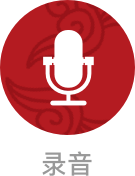
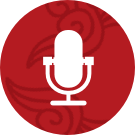
bug fixed

diff --git a/public/ximalaya/css/style.less b/public/ximalaya/css/style.less
@@ -519,6 +519,22 @@ select {
             margin: 0 80px;
         }
     }
+    .action-txt {
+        padding-top: 10px;
+        font-size: 26px;
+        color: rgba(153, 153, 153, 1);
+        line-height: 37px;
+    }
+    .recode-action,
+    .playing-action {
+        width: 100%;
+    }
+    .action-img {
+        margin: auto;
+    }
+    .red {
+        color: #a20619;
+    }
 }
 
 .result-page {

diff --git a/public/ximalaya/css/style.css b/public/ximalaya/css/style.css
@@ -518,6 +518,22 @@ select {
 .recode-page .actions .bw {
   margin: 0 80px;
 }
+.recode-page .action-txt {
+  padding-top: 10px;
+  font-size: 26px;
+  color: #999999;
+  line-height: 37px;
+}
+.recode-page .recode-action,
+.recode-page .playing-action {
+  width: 100%;
+}
+.recode-page .action-img {
+  margin: auto;
+}
+.recode-page .red {
+  color: #a20619;
+}
 .result-page {
   background: #efefef;
 }
